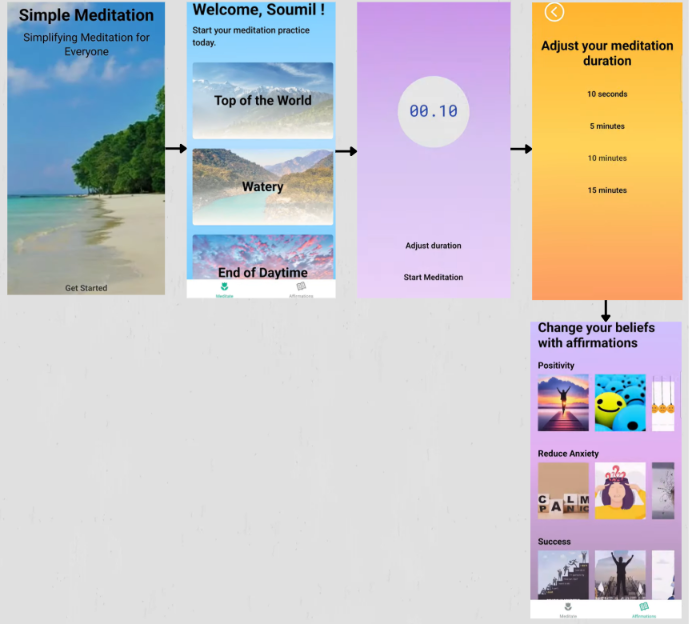
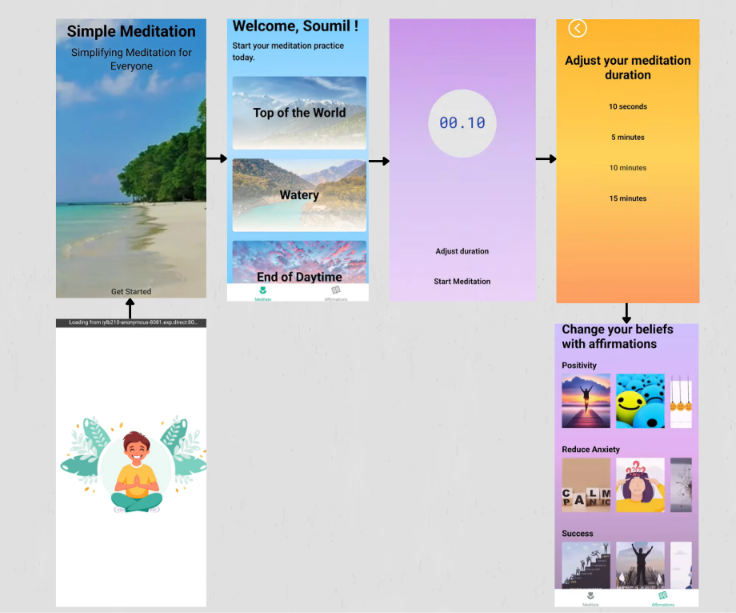
Updated SimulateRecruitAI & Meditation App img/name, matched img bg-color across projects
Updated Meditation App image, name

Fixed arrow direction in Dhyan-Adhyaksh img

diff --git a/src/constants/index.js b/src/constants/index.js
@@ -225,7 +225,7 @@ const projects = [
       },
     ],
     image: jasder,
-    imageClass: "object-contain bg-[#101018]",
+    imageClass: "object-contain bg-[#0d0c12]",
     source_code_link: "https://github.com/Soumilgit/Soumilgit-AI-Interview-SAAS",
     demo_link: "https://soumilgit-ai-interview-saas.vercel.app/",
   },
@@ -299,7 +299,7 @@ const projects = [
     demo_link: "https://tinyurl.com/2m7ae4n4",
   },
   {
-    name: "Meditation App",
+    name: "Dhyan-Adhyaksh",
     description:
       "Developed using React Native and Expo, useful for tracking one's meditation habits and keep a record with affirmations.",
     tags: [
@@ -316,7 +316,7 @@ const projects = [
         color: "pink-text-gradient",
       },
     ],
-    imageClass: "object-contain bg-[#e6e6e6]",
+    imageClass: "object-contain bg-[#e0e0e0]",
     image: boblob,
     source_code_link: "https://github.com/Soumilgit/Meditation-App_React-Native",
     demo_link: "https://youtu.be/3r5finsx_Iw",
